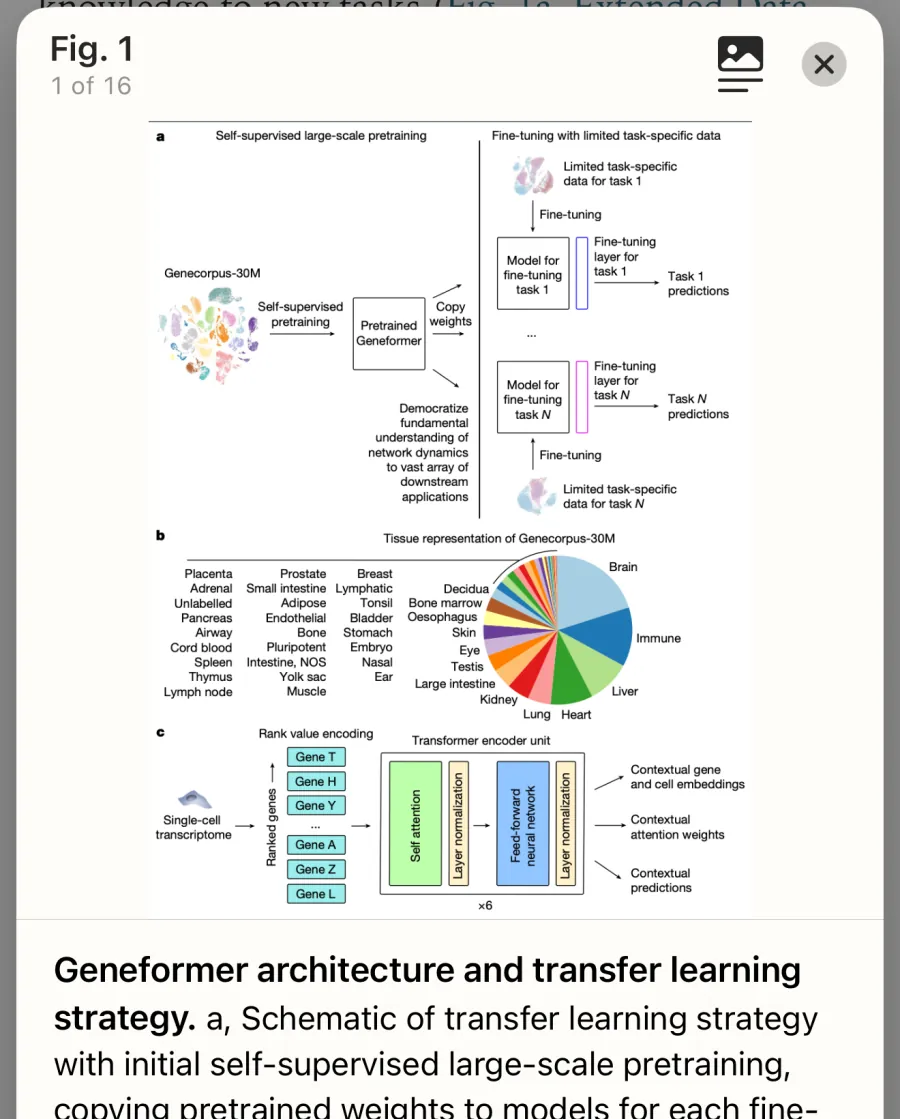
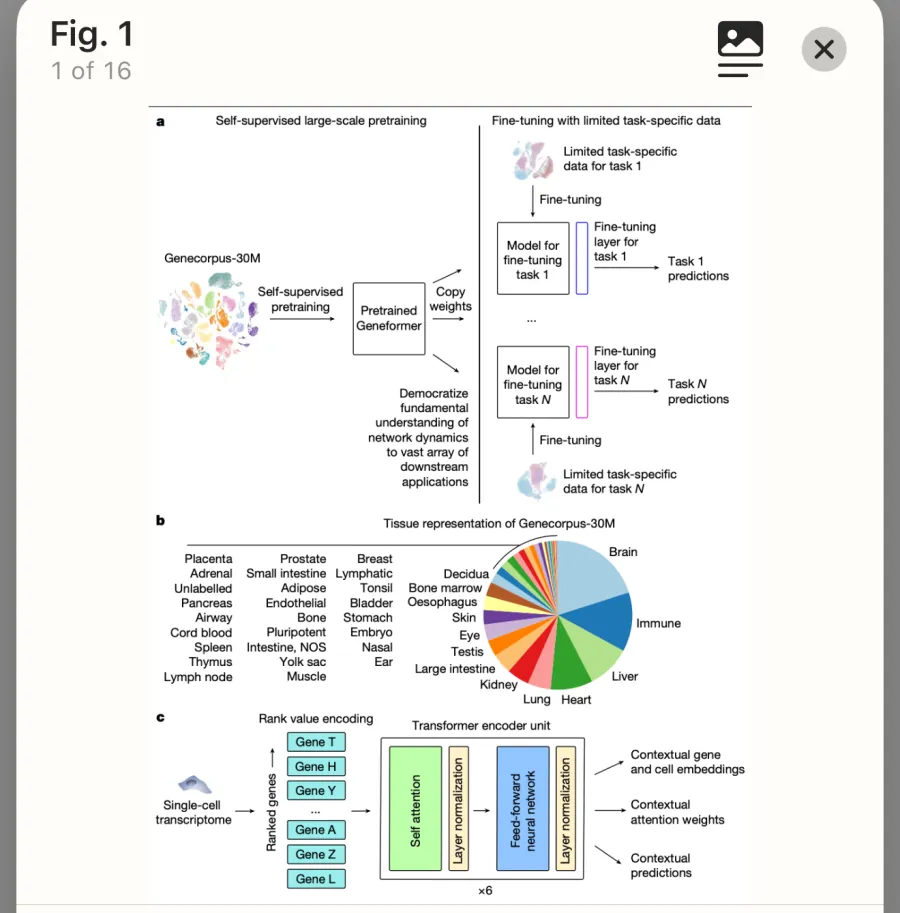
Site: screenshots shown whole. The figure viewer re-cropped to the whole Fig. 1 sheet (no reading-view line above it, panel c complete), New for You to the screen from its title to the first pick's Add button, the Google Docs shot replaced by Lunta's whole panel from it next to the document's citati
Claude-Session: https://claude.ai/code/session_01H3J7fuxrjUcHvkB5Xmjx3V

Changed region(s): [[0.0, 0.0, 0.9956, 1.0], [0.1244, 0.0613, 0.1556, 0.092]]

diff --git a/site/index.html b/site/index.html
@@ -175,7 +175,7 @@
             <h3>Figures, citations and equations that work on a phone</h3>
             <p>Tap a figure, or “Fig. 2” in the text, to see it large with its caption, then swipe through the paper's figures. Tap a citation to see the reference and add it to your library. Scroll or turn pages in Light, Paper, Quiet or Black.</p>
           </div>
-          <div class="art"><div class="shot-crop"><img src="images/crop-figure-900.webp" width="900" height="1119" loading="lazy" alt="The figure viewer on iPhone: Fig. 1 shown large over the text, with its full caption."></div></div>
+          <div class="art"><div class="shot-crop"><img src="images/crop-figure-900.webp" width="900" height="913" loading="lazy" alt="The figure viewer on iPhone: Fig. 1 of the paper, all three panels, shown large over the text."></div></div>
         </article>
 
         <article class="cell c-hl reveal" id="highlight">
@@ -210,7 +210,16 @@
             <p>Citations and a reference list that keeps itself in order, in 12 built-in styles or any of about 10,000 journal styles. Documents carry the papers they cite, so co-authors can update them. For LaTeX: fixed citation keys, a .bib file that keeps itself up to date, and Import BibTeX that keeps your keys.</p>
           </div>
           <div class="styles" aria-hidden="true"><span>Nature</span><span>APA</span><span>Vancouver</span><span>Cell</span><span>IEEE</span><span>BibTeX</span><span>+ 10,000 journals</span></div>
-          <div class="art"><div class="shot-crop"><img src="images/gdocs-citing-900.webp" srcset="images/gdocs-citing-900.webp 900w, images/gdocs-citing-1600.webp 1600w" sizes="(min-width: 64rem) 46rem, 92vw" width="900" height="465" loading="lazy" alt="Citing in Google Docs: two numbered citations and a Nature-style reference list in the document, and the Lunta panel with a search, Insert Citation, Insert Bibliography and Update All."></div></div>
+          <div class="art cite-art">
+            <div class="doc-mock" aria-hidden="true">
+              <div class="doc-bar"><i></i><i></i><i></i><span>Google Docs</span></div>
+              <div class="doc-page">
+                <p>Foundation models are changing single-cell biology<sup>1,2</sup>.</p>
+                <ol><li>Theodoris, C. V. et al. Transfer learning enables predictions in network biology. <i>Nature</i> <b>618</b>, 616–624 (2023).</li><li>Tejada-Lapuerta, A. et al. Nicheformer: a foundation model for single-cell and spatial omics. <i>Nature Methods</i> <b>22</b>, 2525–2538 (2025).</li></ol>
+              </div>
+            </div>
+            <div class="shot-crop panel"><img src="images/gdocs-panel.webp" width="669" height="1092" loading="lazy" alt="Lunta's panel in Google Docs: a search for papers in your library, Insert Citation, Insert Bibliography, Update All, and the selected citation (Theodoris et al., 2023)."></div>
+          </div>
         </article>
 
         <article class="cell c-listen reveal" id="listen">
@@ -247,7 +256,7 @@
             <h3>New papers, every morning</h3>
             <p>Picks that match your research, with why each one is there. Add your ORCID iD and Lunta also learns from your own papers.</p>
           </div>
-          <div class="art"><div class="shot-crop"><img src="images/crop-new-for-you-900.webp" width="900" height="969" loading="lazy" alt="New for You on iPhone: a short digest of today's picks and a card for a new preprint, with why it was picked and an Add button."></div></div>
+          <div class="art"><div class="shot-crop"><img src="images/crop-new-for-you-900.webp" width="900" height="1412" loading="lazy" alt="New for You on iPhone: a short digest of today's picks and a card for a new preprint, with why it was picked and an Add button."></div></div>
         </article>
 
         <article class="cell c-ext reveal" id="extension">
@@ -256,7 +265,7 @@
             <h3>Save from the journal's page</h3>
             <p>With the access your browser already has. <strong>Use this page's full text</strong> makes the reading view from the article page. Chrome, Edge, Firefox and Safari.</p>
           </div>
-          <div class="art" style="padding:0 1.5rem"><div class="shot-crop" style="margin:0 auto;max-width:17rem;border-radius:.75rem .75rem 0 0"><img src="images/extension-panel.webp" width="545" height="567" loading="lazy" alt="The Lunta extension's panel on a Nature Genetics article page: the paper is in the library, its PDF saved, and the reading view updated from the page's full text."></div></div>
+          <div class="art"><div class="shot-crop narrow"><img src="images/extension-panel.webp" width="545" height="567" loading="lazy" alt="The Lunta extension's panel on a Nature Genetics article page: the paper is in the library, its PDF saved, and the reading view updated from the page's full text."></div></div>
         </article>
 
         <article class="cell dark c-agents reveal" id="agents">

diff --git a/site/style.css b/site/style.css
@@ -593,3 +593,39 @@ p:last-child { margin-bottom: 0; }
 .caveat p { color: var(--muted); font-size: .9375rem; }
 .caveat .textlink { margin-top: auto; padding-top: 1rem; }
 #switch .section-head { max-width: 56rem; }
+
+/* ---------- screenshots shown whole, with a visible edge in both schemes ---------- */
+.shot-crop, .cell.read-cell .art .shot-crop { margin: 0 1.5rem 1.5rem; border: 1px solid rgba(21, 49, 59, .14); border-radius: .75rem; box-shadow: 0 1px 2px rgba(0, 0, 0, .08), 0 18px 36px -18px rgba(0, 0, 0, .35); background: #fff; overflow: hidden; }
+.cell.dark .shot-crop, .cell.read-cell .art .shot-crop { border-color: rgba(247, 244, 236, .28); }
+@media (prefers-color-scheme: dark) { .shot-crop { border-color: rgba(247, 244, 236, .22); } }
+.shot-crop img { display: block; width: 100%; height: auto; }
+.cell.read-cell .art { display: flex; justify-content: center; align-items: flex-end; padding: 0; }
+.cell.read-cell .art .shot-crop { width: min(calc(100% - 3rem), 28rem); max-width: none; }
+.shot-crop.narrow { max-width: 19rem; margin-inline: auto; }
+.cite-art { display: grid; grid-template-columns: minmax(0, 1fr); gap: 1rem; padding: 0 1.5rem 1.5rem; align-items: start; }
+.cite-art .shot-crop { margin: 0; }
+.cite-art .panel { width: min(100%, 18rem); justify-self: center; }
+@media (min-width: 40rem) { .cite-art { grid-template-columns: minmax(0, 1fr) 15rem; } .cite-art .panel { width: 100%; } }
+.doc-mock { border: 1px solid rgba(21, 49, 59, .14); border-radius: .75rem; overflow: hidden; background: #fff; color: #222; box-shadow: 0 18px 36px -18px rgba(0, 0, 0, .35); }
+@media (prefers-color-scheme: dark) { .doc-mock { border-color: rgba(247, 244, 236, .22); } }
+.doc-bar { display: flex; align-items: center; gap: .375rem; height: 2rem; padding: 0 .75rem; background: #f1f3f4; border-bottom: 1px solid #e0e0e0; }
+.doc-bar i { width: .5625rem; height: .5625rem; border-radius: 50%; background: #c9cdd0; }
+.doc-bar span { margin-left: .5rem; font: 500 .75rem/1 var(--font-body); color: #555; }
+.doc-page { padding: 1.5rem 1.5rem 1.75rem; font: 400 .9375rem/1.55 Arial, Helvetica, sans-serif; }
+.doc-page p { margin: 0 0 1.25rem; }
+.doc-page sup { font-size: .7em; }
+.doc-page ol { margin: 0; padding-left: 1.25rem; font-size: .8438rem; line-height: 1.5; }
+.doc-page li { margin-bottom: .5rem; }
+
+/* hero devices on small screens: whole, never a sliver off the edge */
+@media (max-width: 61.99rem) {
+  .hero-art { width: min(100%, 36rem); padding: 0 0 3rem; display: flex; align-items: flex-end; justify-content: center; gap: 4%; }
+  .hero-art .tablet { --tw: min(22rem, 56vw); width: var(--tw); margin: 0; }
+  .hero-art .phone { position: static; --pw: min(10.5rem, 27vw); width: var(--pw); }
+}
+@media (max-width: 29.99rem) {
+  .hero-art .tablet { display: none; }
+  .hero-art .phone { --pw: min(15rem, 70vw); }
+}
+.cell .doc-page p { color: #222; font-size: .9375rem; line-height: 1.55; }
+.cell.read-cell .art .shot-crop { width: min(calc(100% - 3rem), 30rem); }
